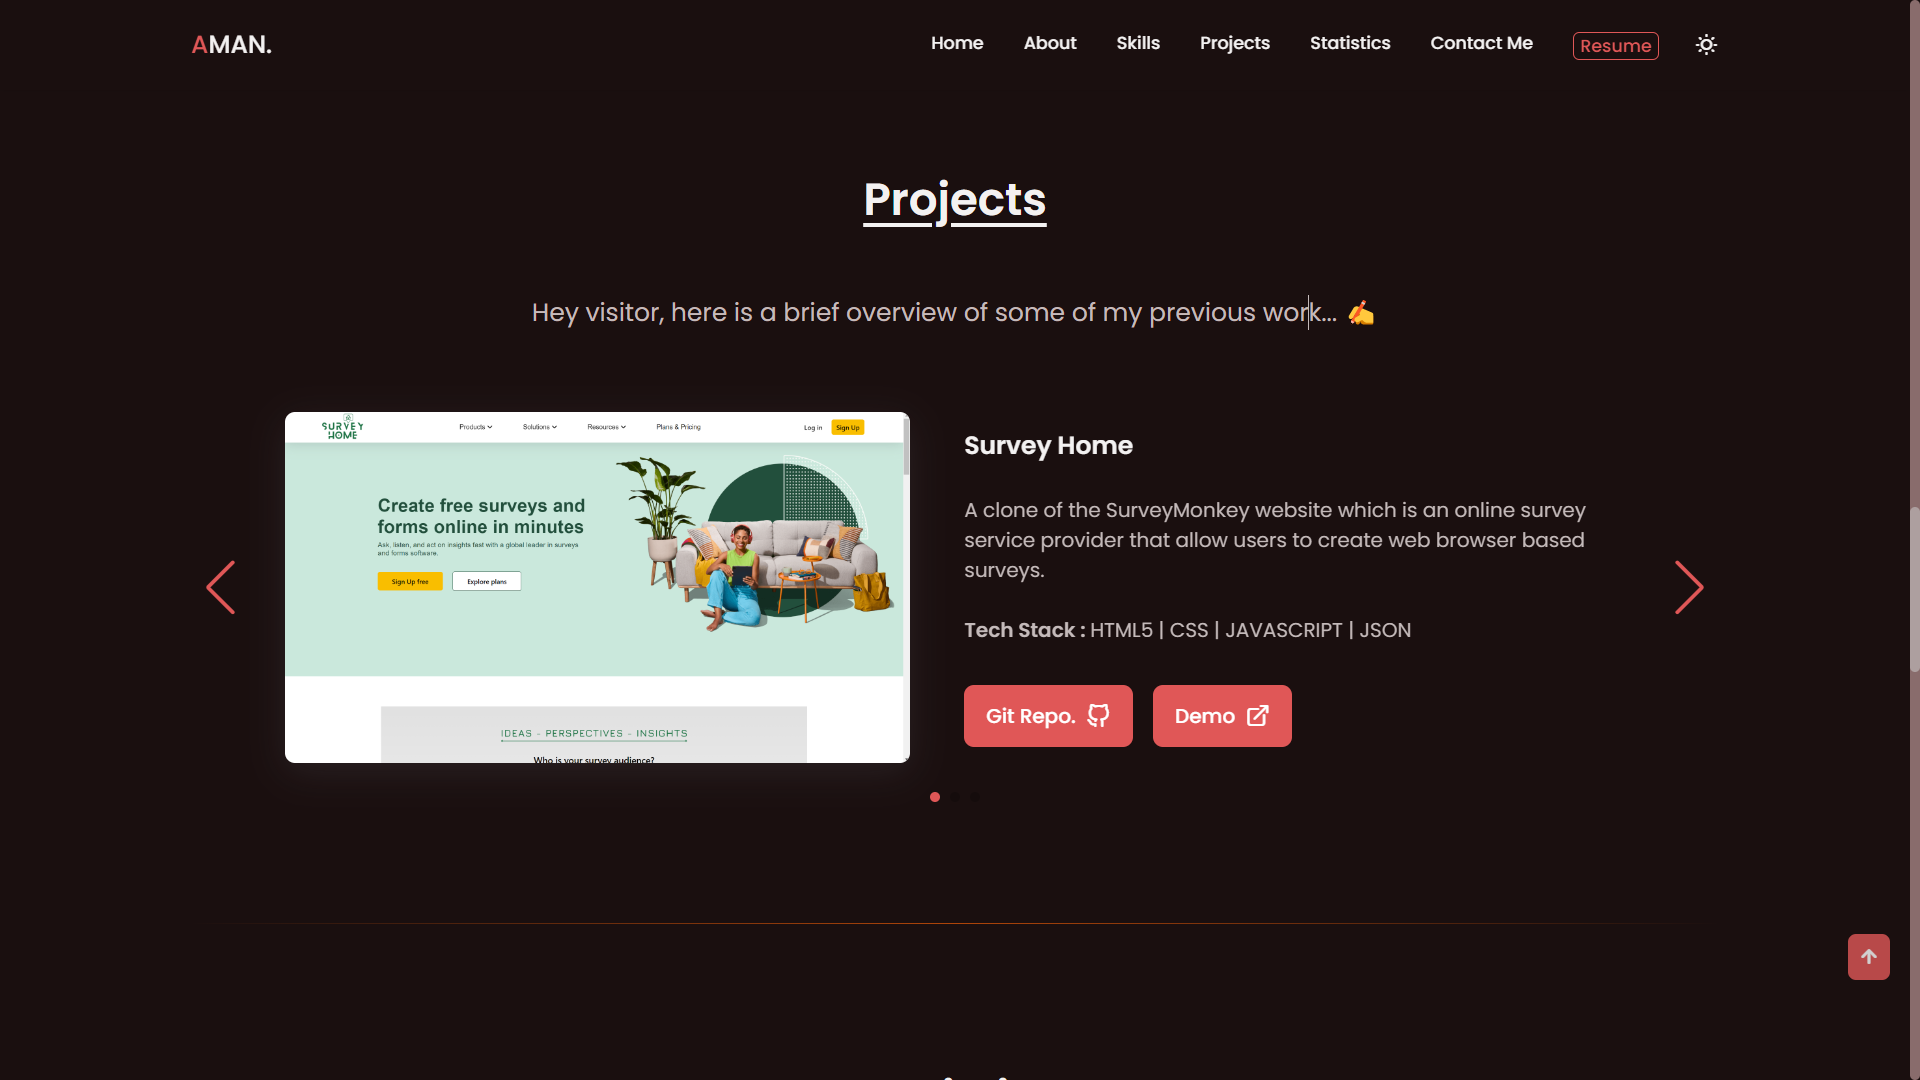
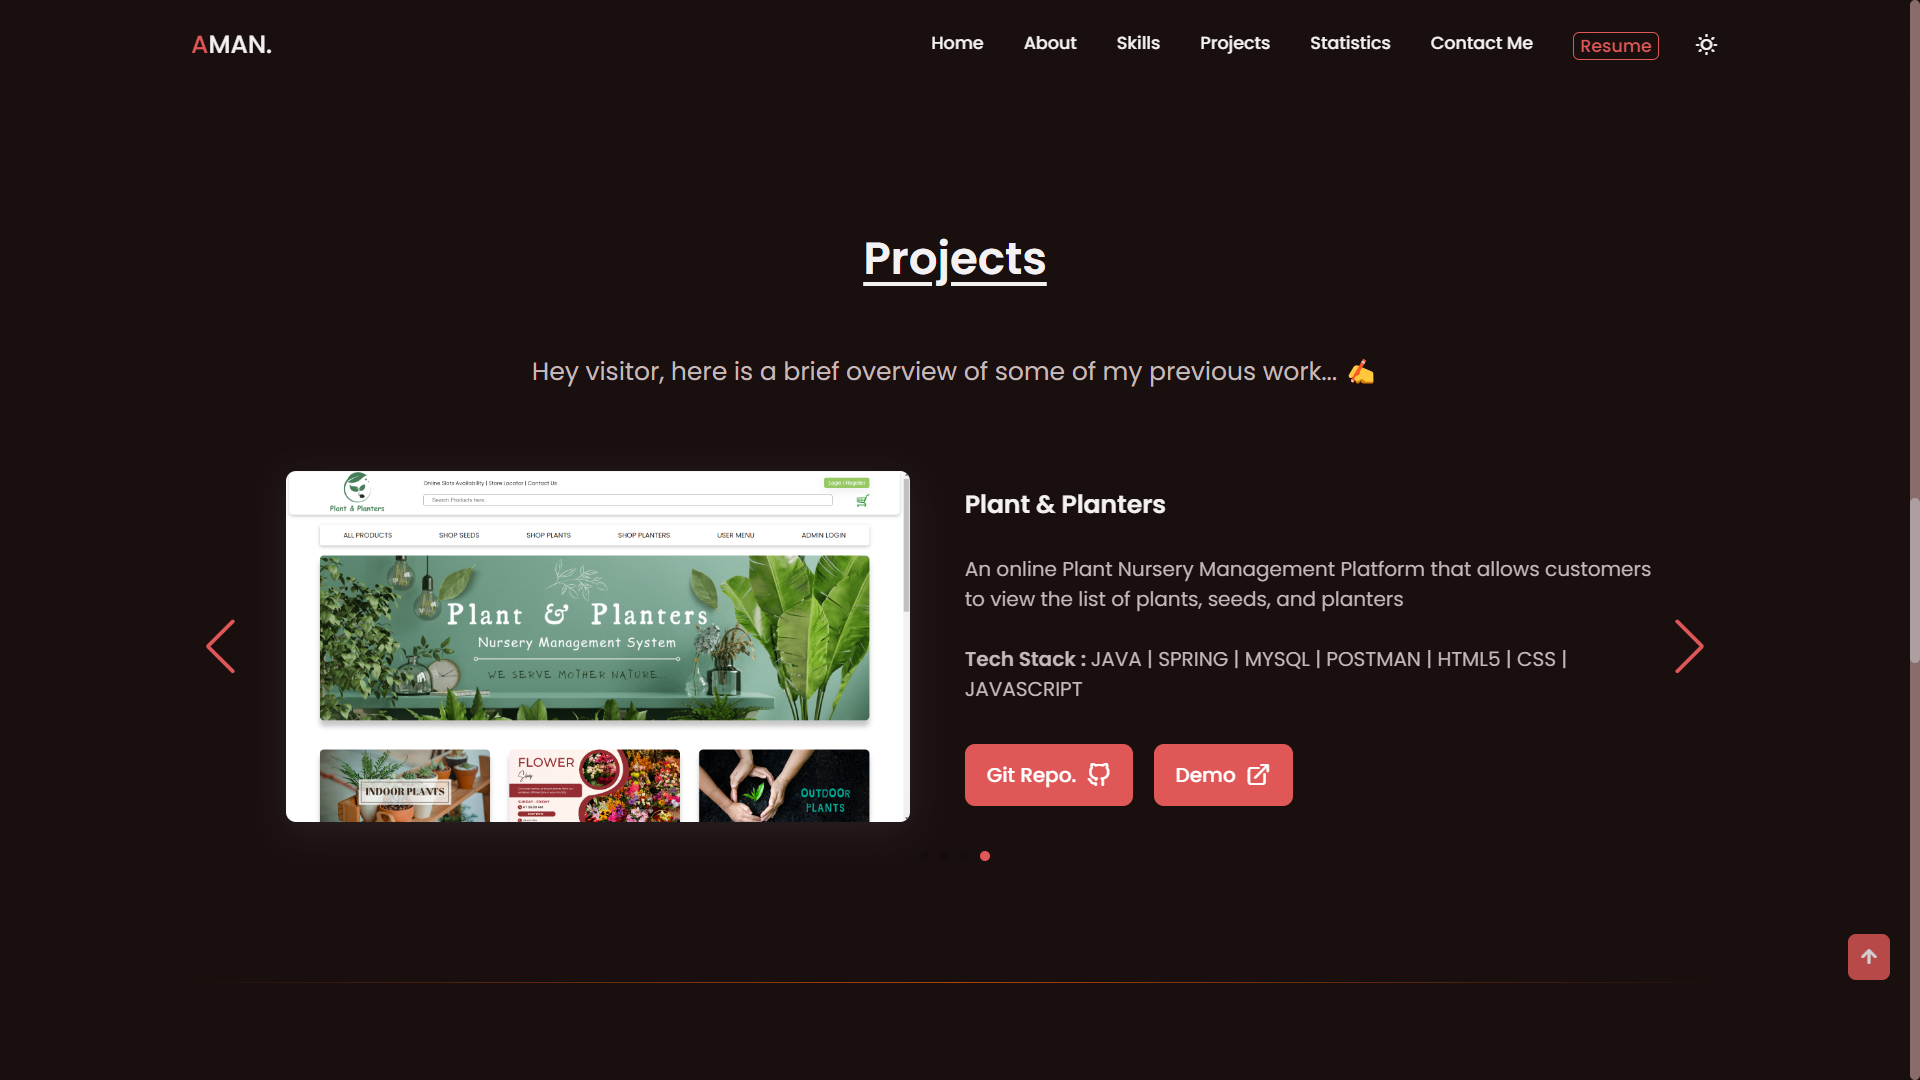
screenshot added

Changed region(s): [[0.0938, 0.3361, 0.875, 0.7639], [0.2812, 0.1528, 0.7188, 0.3056], [0.875, 0.5806, 0.9062, 0.6111]]

diff --git a/index.html b/index.html
@@ -548,6 +548,29 @@
                 <div class="swiper-wrapper">
                     <!-- ========== Project 1 ========== -->
                     <div class="portfolio_content grid swiper-slide project-card">
+                        <img src="/images/Plant & Planters.png" alt="" class="portfolio_img">
+
+                        <div class="portfolio_data">
+                            <h3 class="portfolio_title project_title project-title">Plant & Planters</h3>
+                            <p class="portfolio_description project-description">An online Plant Nursery Management
+                                Platform that allows customers to view the list of plants, seeds, and planters</p>
+                            <p class="project-tech-stack"><b>Tech Stack : </b>JAVA | SPRING | MYSQL | POSTMAN | HTML5 |
+                                CSS | JAVASCRIPT</p>
+                            <a href="https://github.com/shubhamyv13/miniature-mountain-3002" target="_blank"
+                                class="project-github-link button button-flex button-small portfolio_button">
+                                Git Repo.
+                                <i class="uil uil-github-alt button_icon"></i>
+                            </a>
+                            <a href="#" target="_blank"
+                                class="button button-flex button-small portfolio_button project-deployed-link">
+                                Demo
+                                <i class="uil uil-external-link-alt button_icon"></i>
+                            </a>
+                        </div>
+                    </div>
+
+                    <!-- ========== Project 2 ========== -->
+                    <div class="portfolio_content grid swiper-slide project-card">
                         <img src="/images/SurveyHome.png" alt="" class="portfolio_img">
 
                         <div class="portfolio_data">
@@ -569,7 +592,7 @@
                         </div>
                     </div>
 
-                    <!-- ========== Project 2 ========== -->
+                    <!-- ========== Project 3 ========== -->
                     <div class="portfolio_content grid swiper-slide project-card">
                         <img src="/images/GroceryWala.png" alt="" class="portfolio_img">
 
@@ -591,7 +614,7 @@
                         </div>
                     </div>
 
-                    <!-- ========== Project 3 ========== -->
+                    <!-- ========== Project 4 ========== -->
                     <div class="portfolio_content grid swiper-slide project-card">
                         <img src="/images/Portfolio-Light.png" alt="" class="portfolio_img">
 
@@ -606,29 +629,6 @@
                                 <i class="uil uil-github-alt button_icon"></i>
                             </a>
                             <a href="https://amanchaudhary214.github.io/" target="_blank"
-                                class="button button-flex button-small portfolio_button project-deployed-link">
-                                Demo
-                                <i class="uil uil-external-link-alt button_icon"></i>
-                            </a>
-                        </div>
-                    </div>
-
-                    <!-- ========== Project 4 ========== -->
-                    <div class="portfolio_content grid swiper-slide project-card">
-                        <img src="/images/Plant&Planters.png" alt="" class="portfolio_img">
-
-                        <div class="portfolio_data">
-                            <h3 class="portfolio_title project_title project-title">Plant & Planters</h3>
-                            <p class="portfolio_description project-description">An online Plant Nursery Management
-                                Platform that allows customers to view the list of plants, seeds, and planters</p>
-                            <p class="project-tech-stack"><b>Tech Stack : </b>JAVA | SPRING | MYSQL | POSTMAN | HTML5 |
-                                CSS | JAVASCRIPT</p>
-                            <a href="https://github.com/shubhamyv13/miniature-mountain-3002" target="_blank"
-                                class="project-github-link button button-flex button-small portfolio_button">
-                                Git Repo.
-                                <i class="uil uil-github-alt button_icon"></i>
-                            </a>
-                            <a href="#" target="_blank"
                                 class="button button-flex button-small portfolio_button project-deployed-link">
                                 Demo
                                 <i class="uil uil-external-link-alt button_icon"></i>

diff --git a/README.md b/README.md
@@ -30,7 +30,7 @@
 ## ![Contact Section](https://img.shields.io/badge/contact_section-%231572B6.svg?style=for-the-badge)
 ![image](https://github.com/AmanChaudhary214/AmanChaudhary214.github.io/blob/master/screenshot-images/contact-dark.png)
 
-# ![Footer Section](https://img.shields.io/badge/footer_section-%231572B6.svg?style=for-the-badge)
+## ![Footer Section](https://img.shields.io/badge/footer_section-%231572B6.svg?style=for-the-badge)
 ![image](https://github.com/AmanChaudhary214/AmanChaudhary214.github.io/blob/master/screenshot-images/footer-dark.png)
 
 
